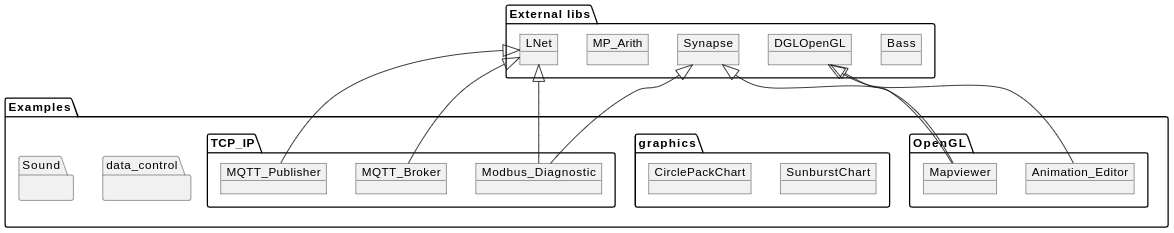
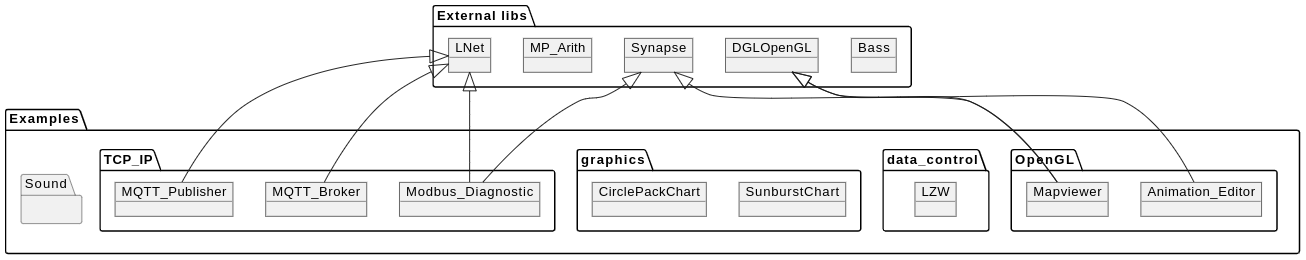
Update docu

diff --git a/README.md b/README.md
@@ -43,7 +43,9 @@ Collection of classes and examples corresponding to data processing, math and co
 
 | Example | Description |
 | --- | --- |
+| LZW | demo application for uLZW.pas (Lempel-Ziv-Welch algorithm) |
 | uJSON.pas | JSON-Loader / writer class |
+| uLZW.pas | Implementation of Lempel-Ziv-Welch algorithm with two different dictionaries |
 | ubitstream.pas | Stream to store and load bitwise data (typically only needed in compression algorithms) |
 | ucrc.pas | Generic crc calculation class |
 | udomxml.pas | generic xml parser |
